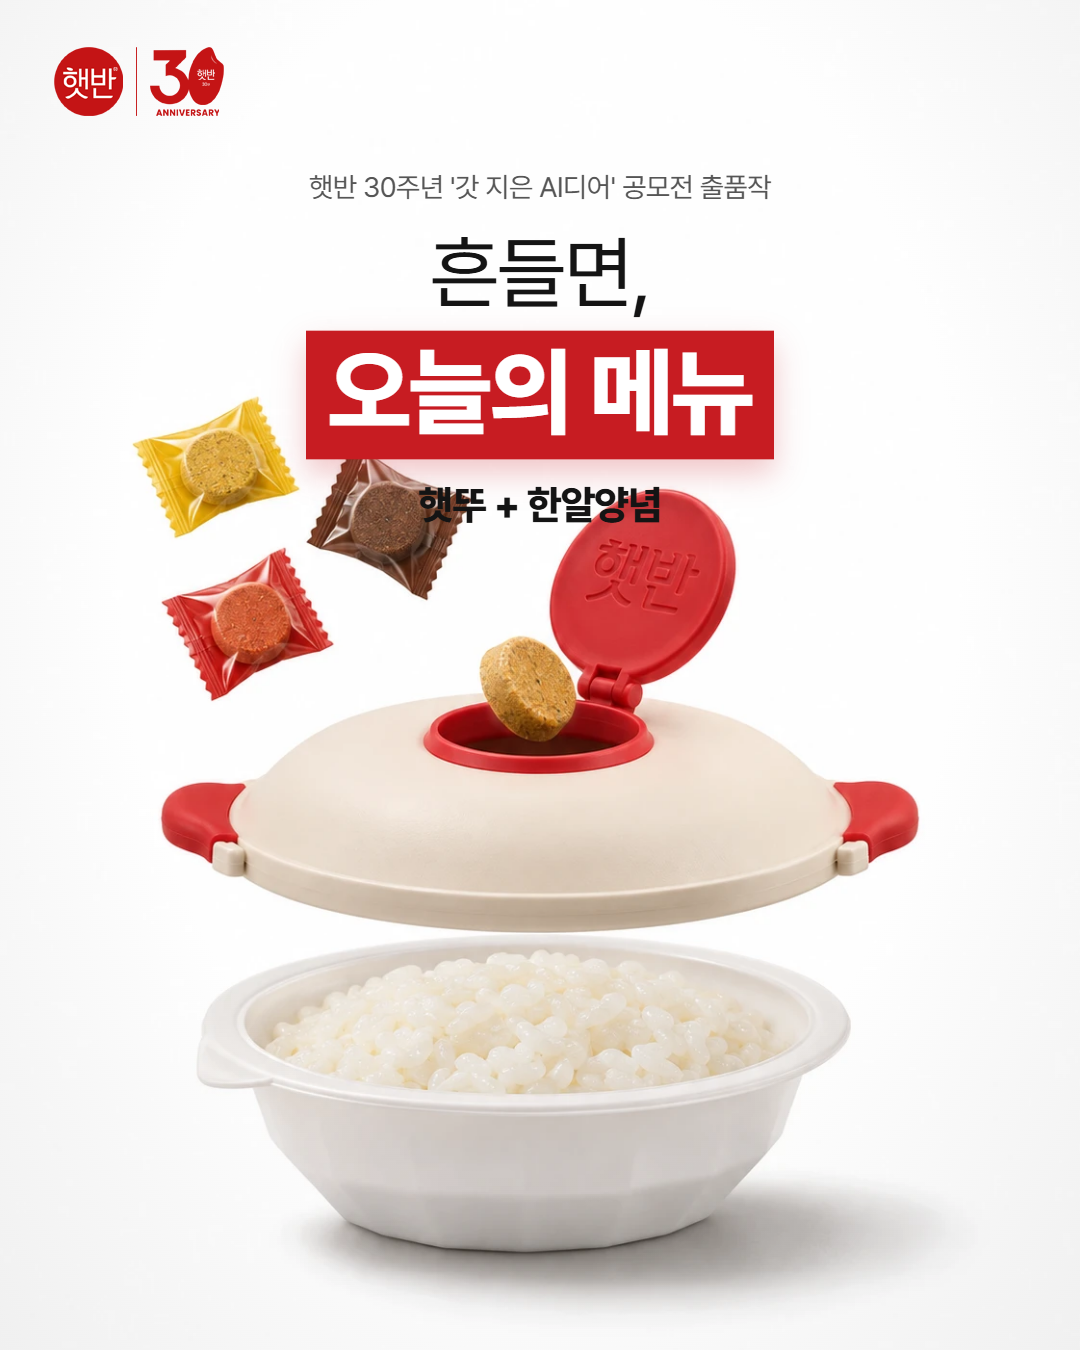
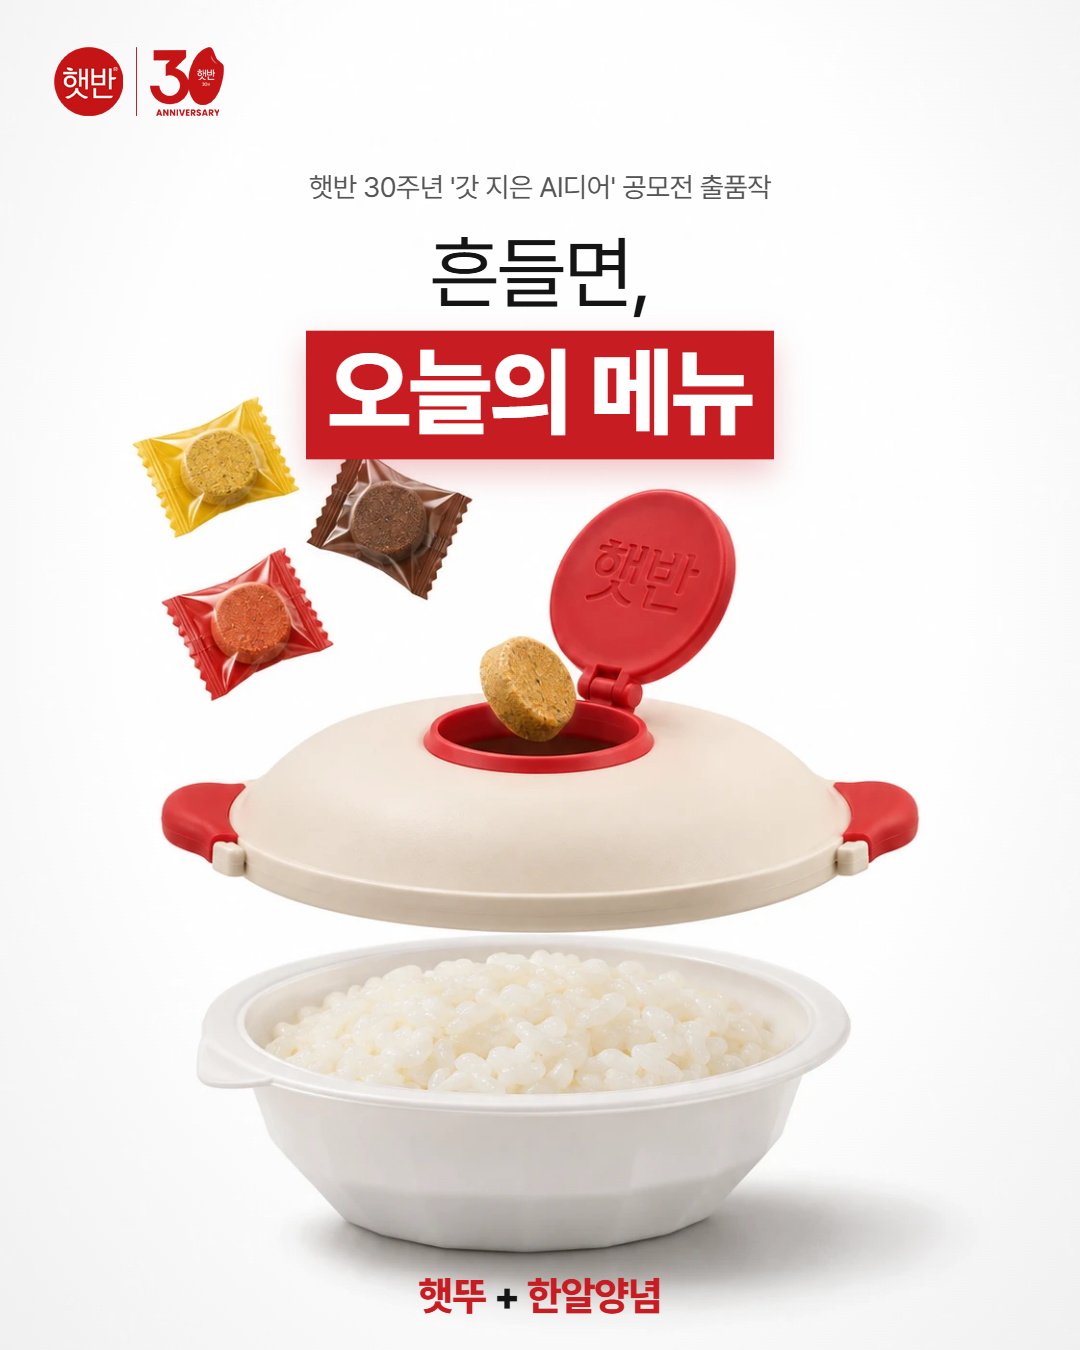
Auto-sync: 2026-11-13 16:49:17

Changed region(s): [[0.3972, 0.3422, 0.6111, 0.4044], [0.3667, 0.9333, 0.6111, 0.9956]]

diff --git a/햇반공모전/캐러셀_슬라이드.html b/햇반공모전/캐러셀_슬라이드.html
@@ -105,8 +105,8 @@ body{background:#ddd;font-family:Pretendard,"Malgun Gothic",sans-serif;color:var
     <div class="tagline">햇반 30주년 '갓 지은 AI디어' 공모전 출품작</div>
     <div class="h-light" style="font-size:80px;margin-top:22px">흔들면,</div>
     <div style="margin-top:10px"><span class="box" style="font-size:96px">오늘의 메뉴</span></div>
-    <div class="h-bold" style="font-size:40px;margin-top:22px;letter-spacing:-1px">햇뚜 + 한알양념</div>
   </div>
+  <div class="center" style="top:1272px"><span class="h-bold" style="font-size:40px;letter-spacing:-1px"><span style="color:var(--red)">햇뚜</span> + <span style="color:var(--red)">한알양념</span></span></div>
 </section>
 
 <!-- 03 문제 -->
@@ -166,8 +166,8 @@ body{background:#ddd;font-family:Pretendard,"Malgun Gothic",sans-serif;color:var
 </section>
 
 <!-- 09 부피 -->
-<section class="slide" id="s09" style="background:#fff">
-  <img src="출품1_이미지/P7.webp" style="position:absolute;left:100px;top:270px;width:880px;mix-blend-mode:multiply">
+<section class="slide" id="s09" style="background:#efefef">
+  <img src="출품1_이미지/P7.webp" style="position:absolute;left:100px;top:270px;width:880px;-webkit-mask-image:radial-gradient(ellipse 72% 72% at 50% 50%,#000 62%,transparent 100%);mask-image:radial-gradient(ellipse 72% 72% at 50% 50%,#000 62%,transparent 100%)">
   <div class="logo"><img src="참고이미지/햇반30로고.png"></div>
   <div class="center" style="top:150px">
     <div class="h-bold" style="font-size:70px">부피는 줄이고, <span class="box" style="font-size:70px;padding:2px 16px 6px">맛은 그대로</span></div>
